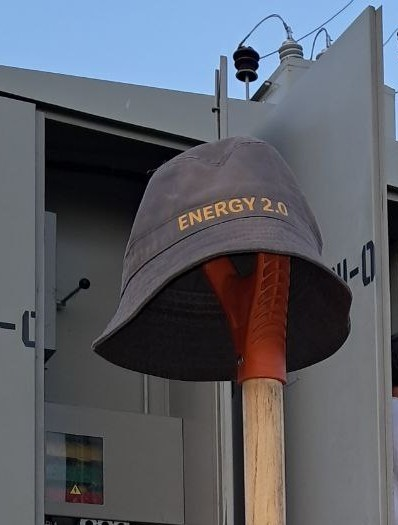
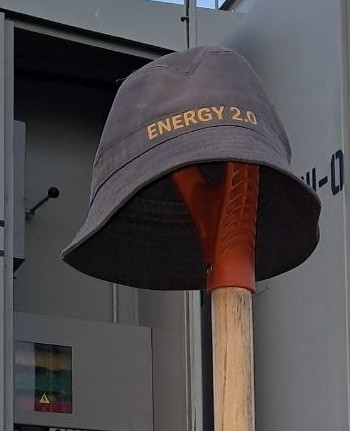
o

diff --git a/index.html b/index.html
@@ -286,9 +286,9 @@
     <div class="container-fluid bg-light overflow-  hidden my-5 px-lg-0">
         <div class="container about px-lg-0">
             <div class="row g-0 mx-lg-0">
-                <div class="col-lg-6 ps-lg-0 wow fadeIn" data-wow-delay="0.1s" style="min-height: 450px;">
+                <div class="col-lg-6 ps-lg-0 wow fadeIn" data-wow-delay="0.1s" style="min-height: 250px;">
                     <div class="position-relative h-100">
-                        <img class="position-absolute img-fluid w-100 h-100" src="img/hat_zoom.jpg" style="object-fit: cover;" alt="hat">
+                        <img class="position-absolute img-fluid w-100 h-100" src="img/hat_zoom.jpg" style="object-fit: contain;" alt="hat">
                     </div>
                 </div>
                 <div class="col-lg-6 about-text py-5 wow fadeIn" data-wow-delay="0.5s">
